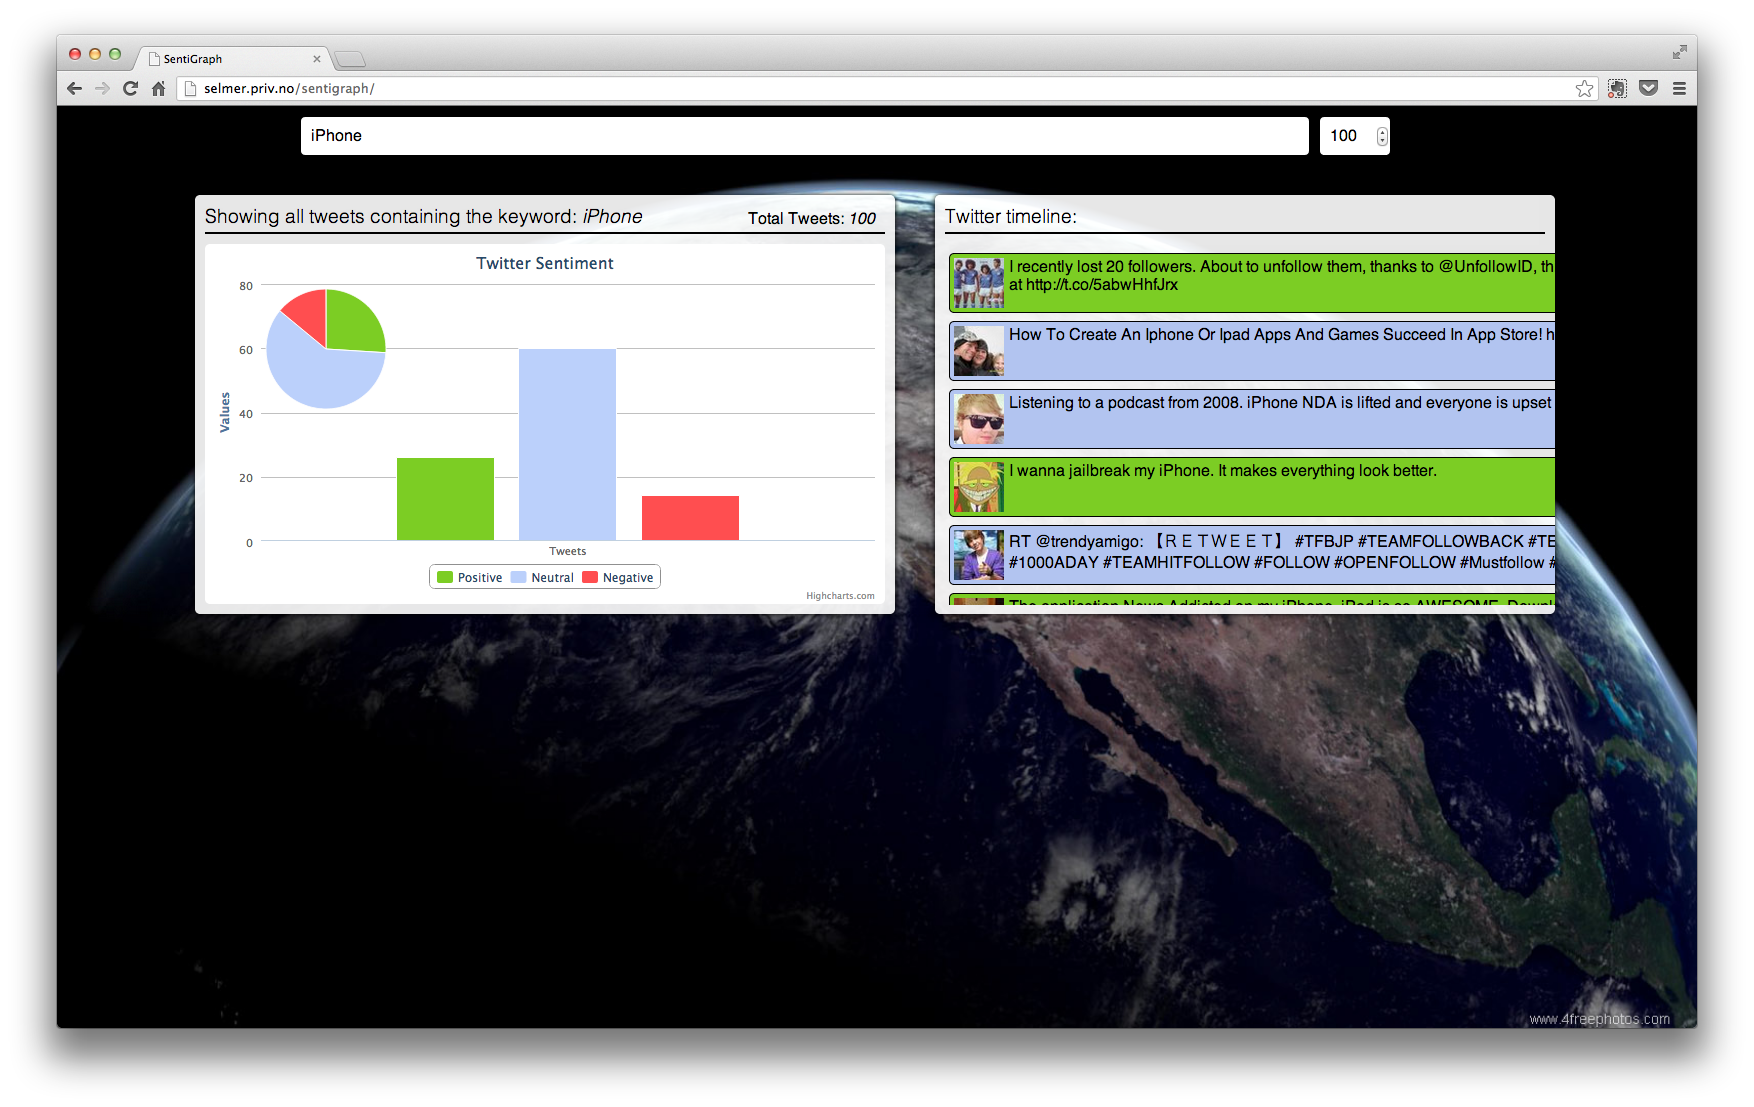
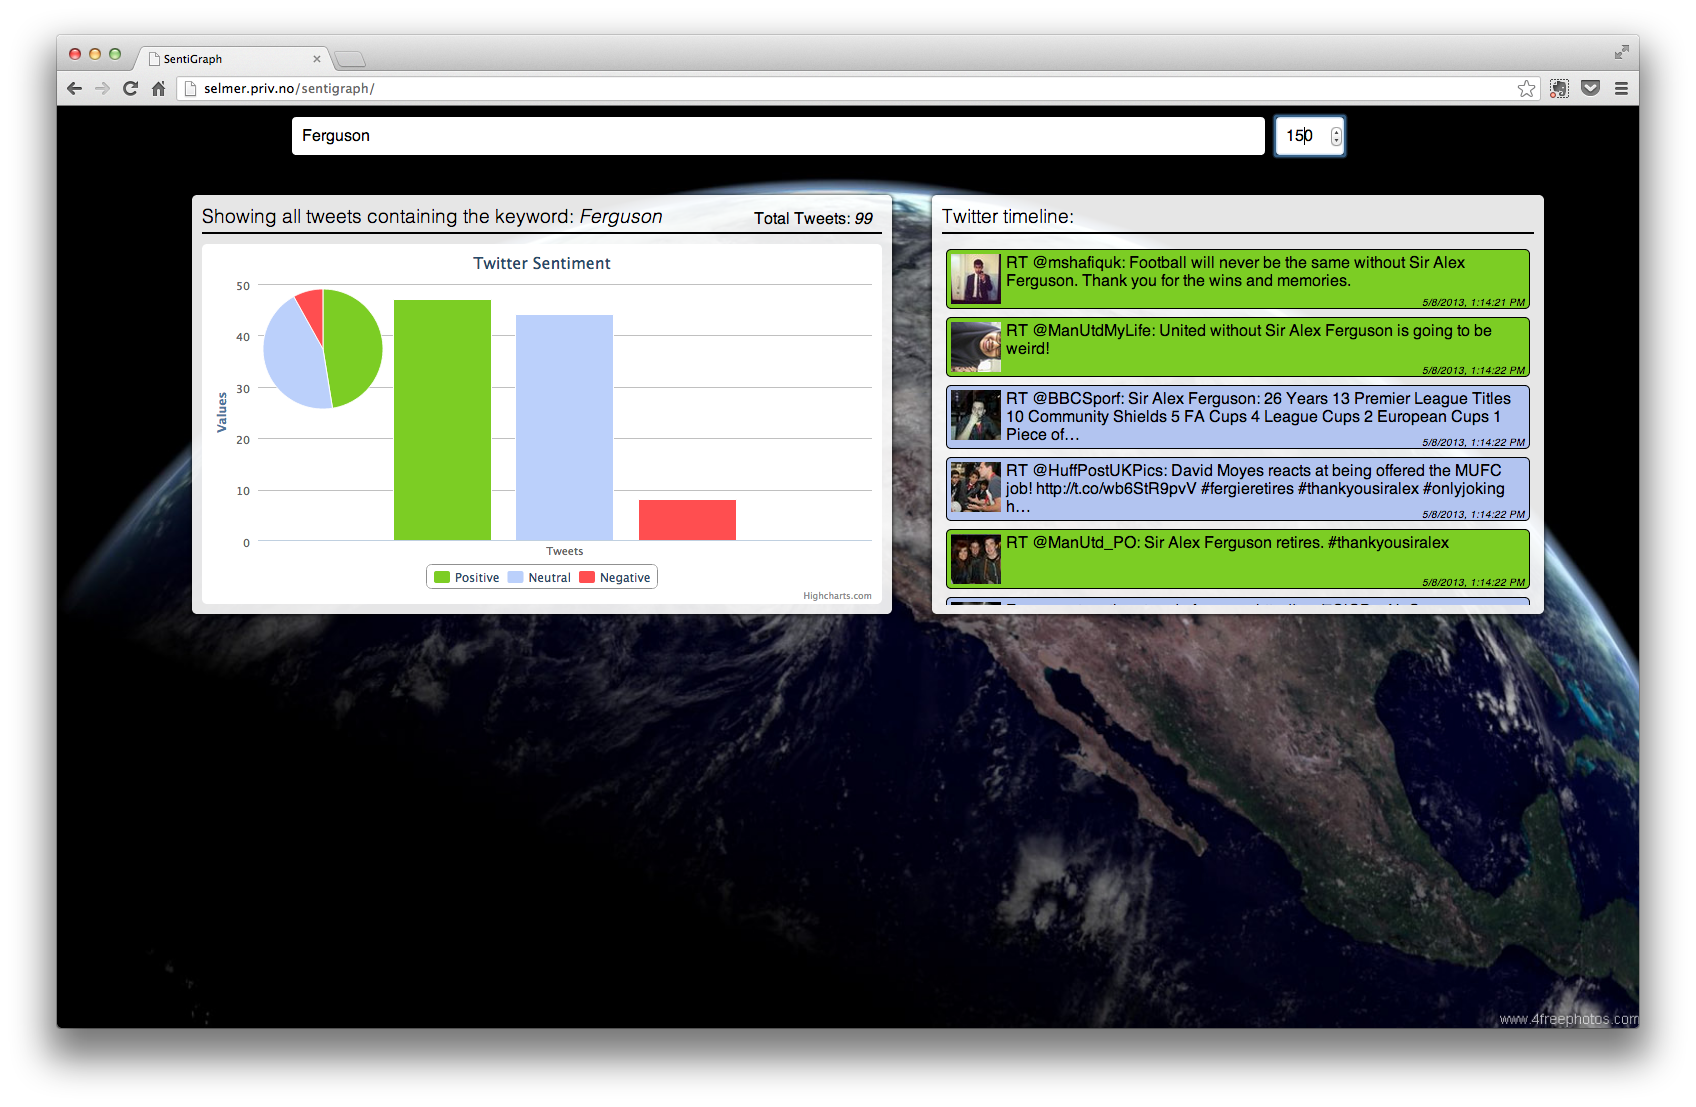
Swapped sentigraph screenshot

diff --git a/master/docs/src/3-context_and_research.tex b/master/docs/src/3-context_and_research.tex
@@ -347,7 +347,7 @@ The application uses CSS for responsiveness, so it fits different screen sizes. 
 \begin{figure}[htb!]
 \begin{center}
  \includegraphics[width=0.8\textwidth]{../img/screenshot_sentigraph.png}
- \caption[SentiGraph screen shot]{Caption here..}
+ \caption[SentiGraph screen shot]{Screen shot of the SentiGraph system working, the same day as Manchester United confirmed Sir Alex Fergusons retirement. Showing overwhelming positive tweets.}
  \label{fig:sentigraph_screenshot}
 \end{center}
 \end{figure}
